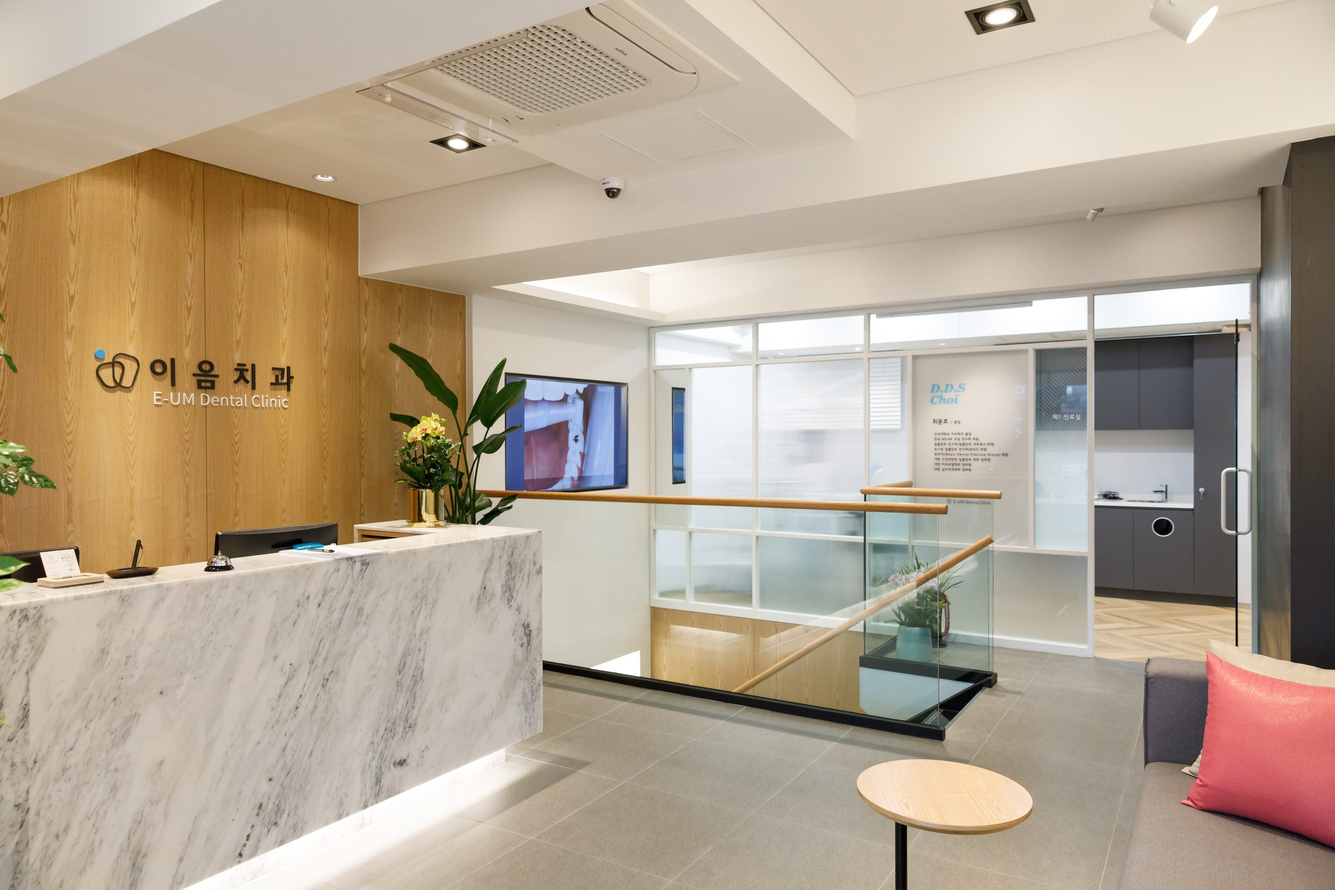
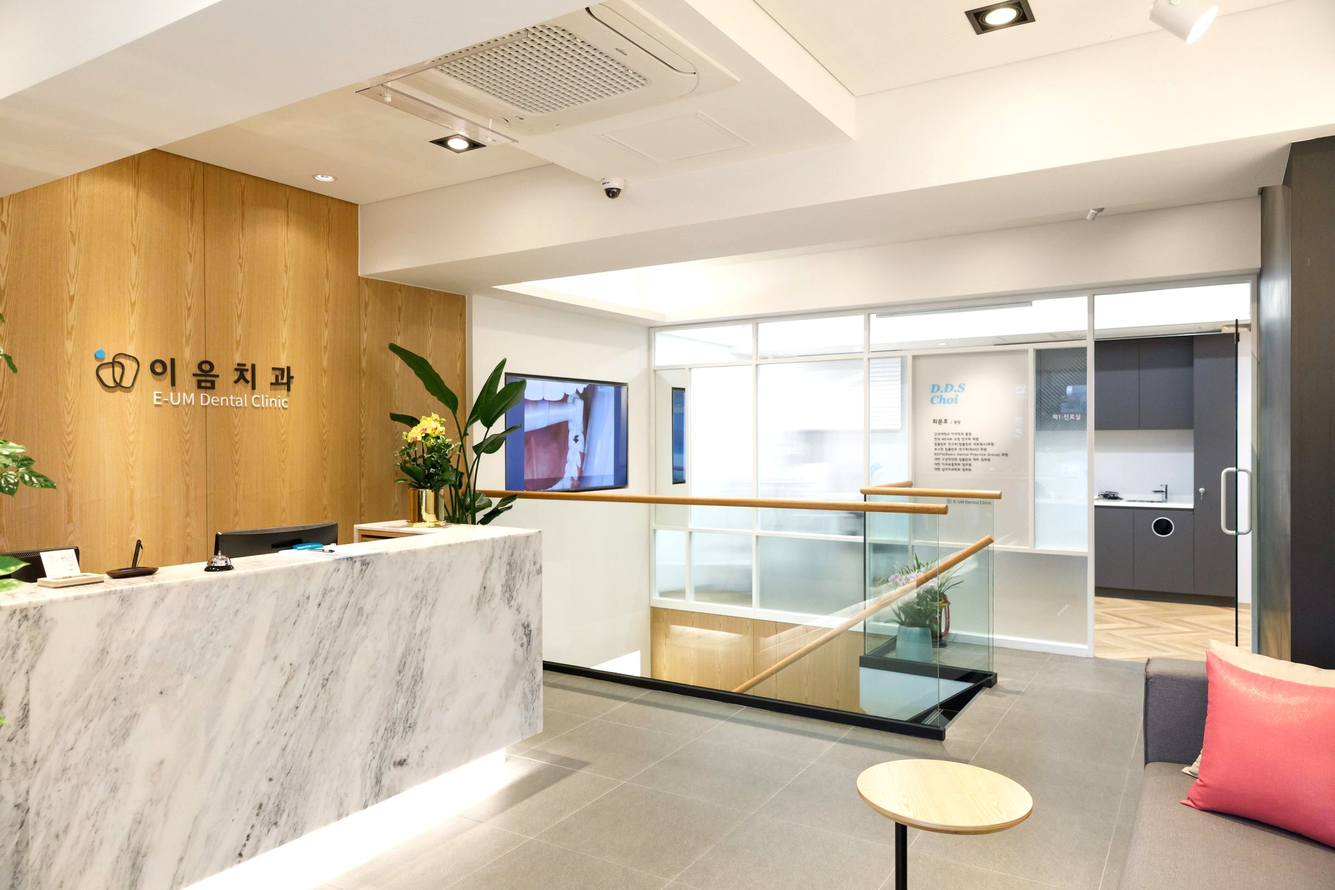
3

diff --git a/css/style.css b/css/style.css
@@ -83,11 +83,12 @@ a { color: inherit; text-decoration: none; }
 }
 
 /* ---------- 히어로 ---------- */
-/* images/hero.jpg 사진 위에 어두운 오버레이 + 흰 글씨.
+/* images/hero.jpg 사진 위에 흰 글씨. 어두운 막은 글씨가 놓이는 가운데에만 둥글게 깔고
+   가장자리는 사진 그대로 밝게 둔다 (2026-11-14 밝기 개선, 사진도 12% 밝게 다시 저장).
    사진이 없으면 진한 그라데이션만 표시됩니다. */
 .hero {
   background:
-    linear-gradient(160deg, rgba(10, 38, 54, 0.36) 0%, rgba(10, 38, 54, 0.21) 100%),
+    radial-gradient(ellipse 75% 60% at 50% 50%, rgba(10, 38, 54, 0.42) 0%, rgba(10, 38, 54, 0.18) 55%, rgba(10, 38, 54, 0) 100%),
     url("../images/hero.jpg") center / cover no-repeat,
     linear-gradient(160deg, var(--primary-dark) 0%, var(--primary) 100%);
   padding: 110px 0 100px;
